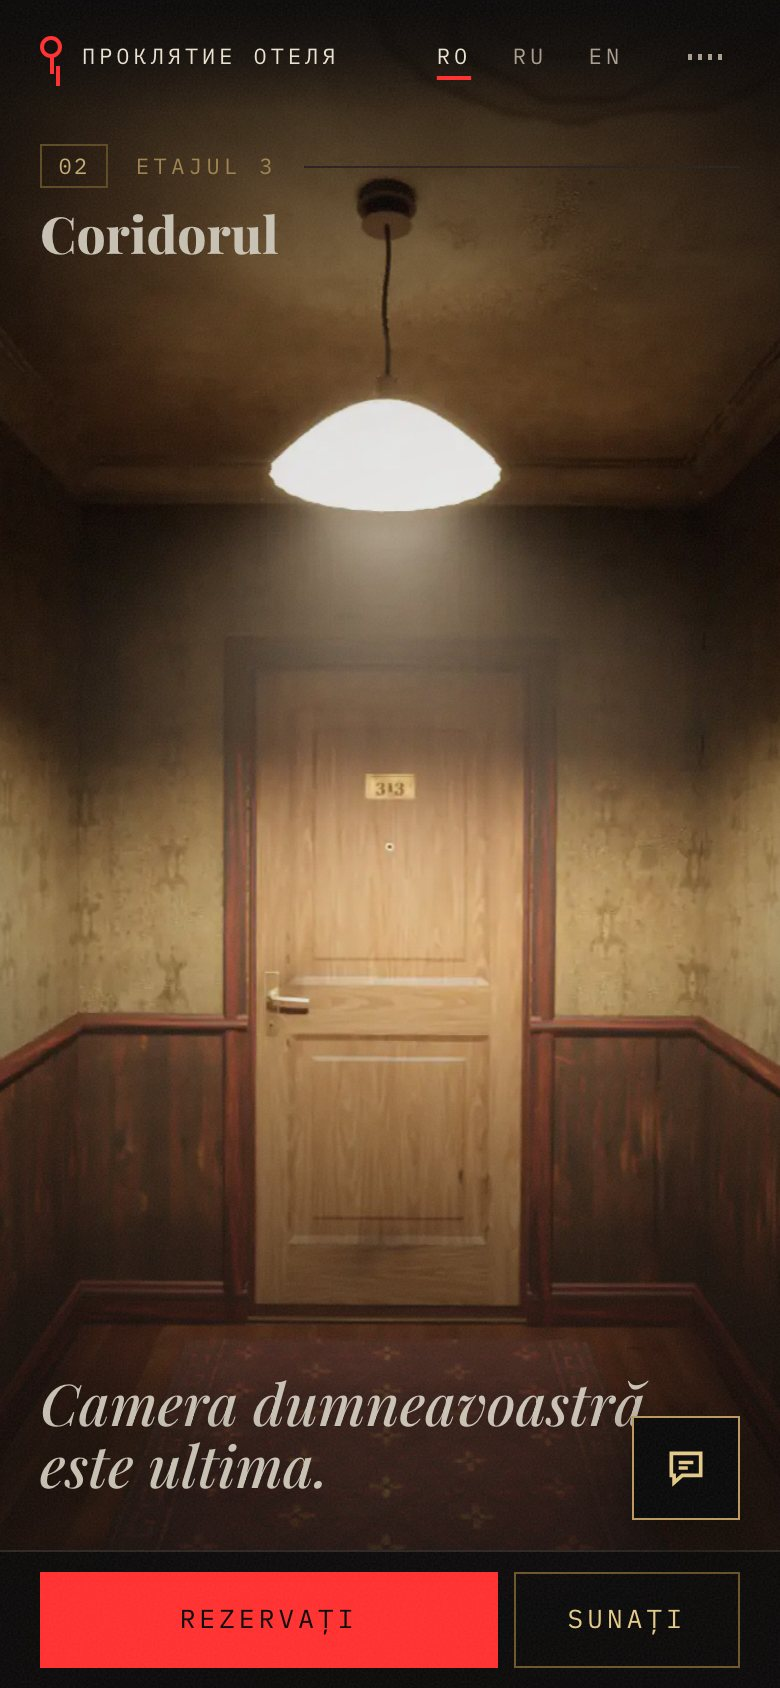
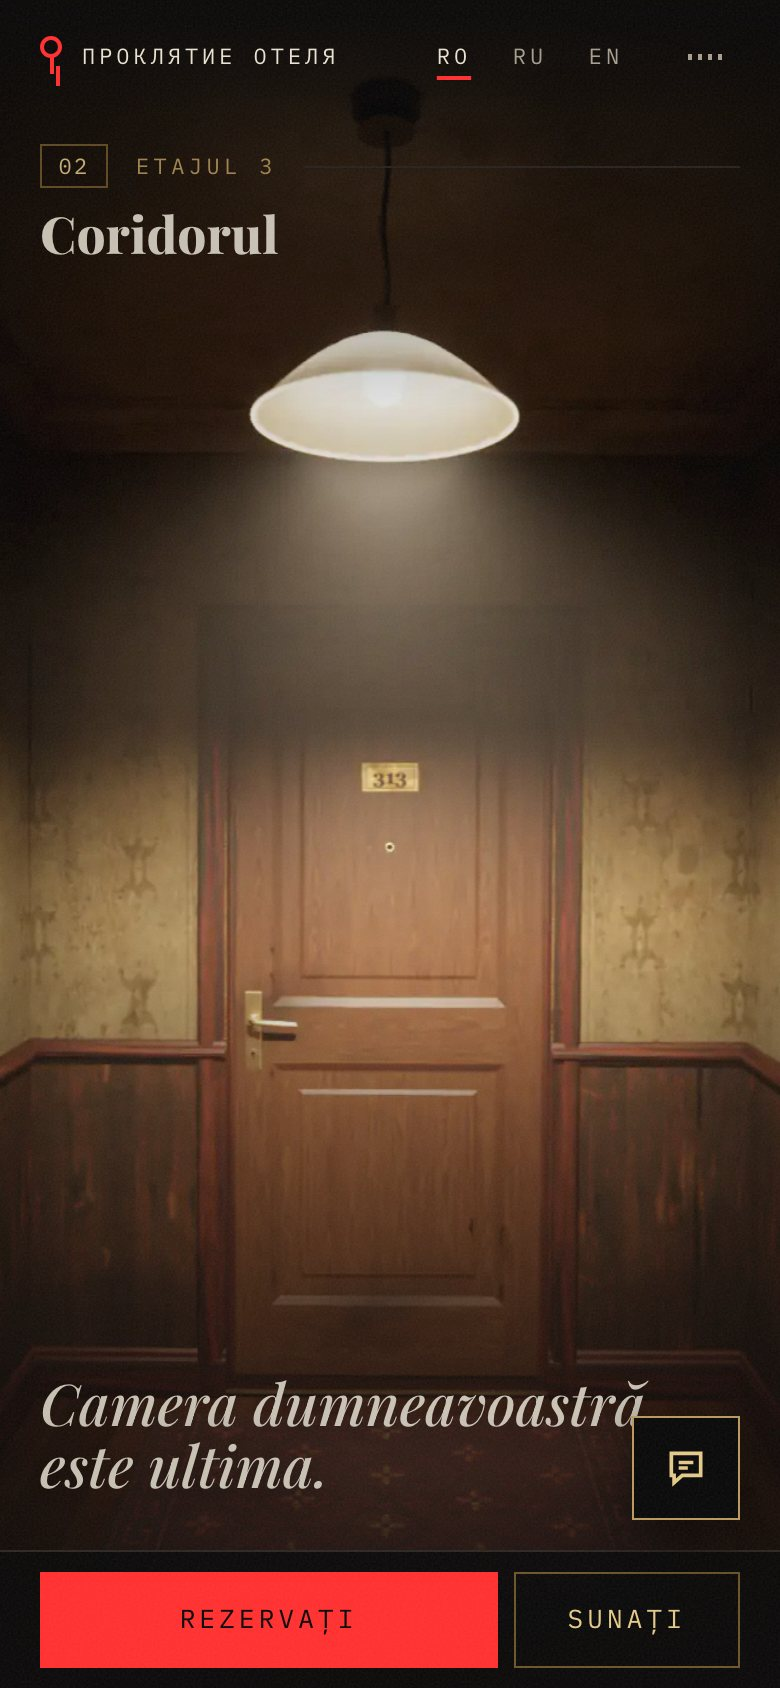
Docs: corridor screenshots from the new render; render packages listed for the owner
Six points of the walk, the reduced-motion still and the scare (patch 9 or 10, the face
leaning out), at 390 and 1440. The handoff asks the owner to confirm the two render
packages the brief did not name (three-gpu-pathtracer, three-mesh-bvh), dev only.

Claude-Session: https://claude.ai/code/session_01PDyeYWNhMmSyNn3Hhv8Evf

diff --git a/HANDOFF.md b/HANDOFF.md
@@ -47,6 +47,11 @@ stand-in is shown. What to send and where it goes: `src/assets/scare/README.md`.
 
 Please also confirm:
 
+- The corridor is rendered offline with three development-only packages: `three` (named in the
+  brief), `three-gpu-pathtracer` and `three-mesh-bvh` (not named in the brief). None of them is
+  sent to visitors; the site ships only the rendered frames. Keep them, or I replace the path
+  tracer with plain three.js rendering, which loses the real bounced light and soft shadows.
+
 - +373 682 32 596 is registered on WhatsApp. The card, the voucher and the floating button all depend on it.
 - The opening hours as I read them: Mon-Thu 16:00-03:00, Fri 16:00-00:00, Sat-Sun 24 hours.
   The Friday closing time (midnight) before a 24-hour Saturday looks unusual. It is shown as given.
